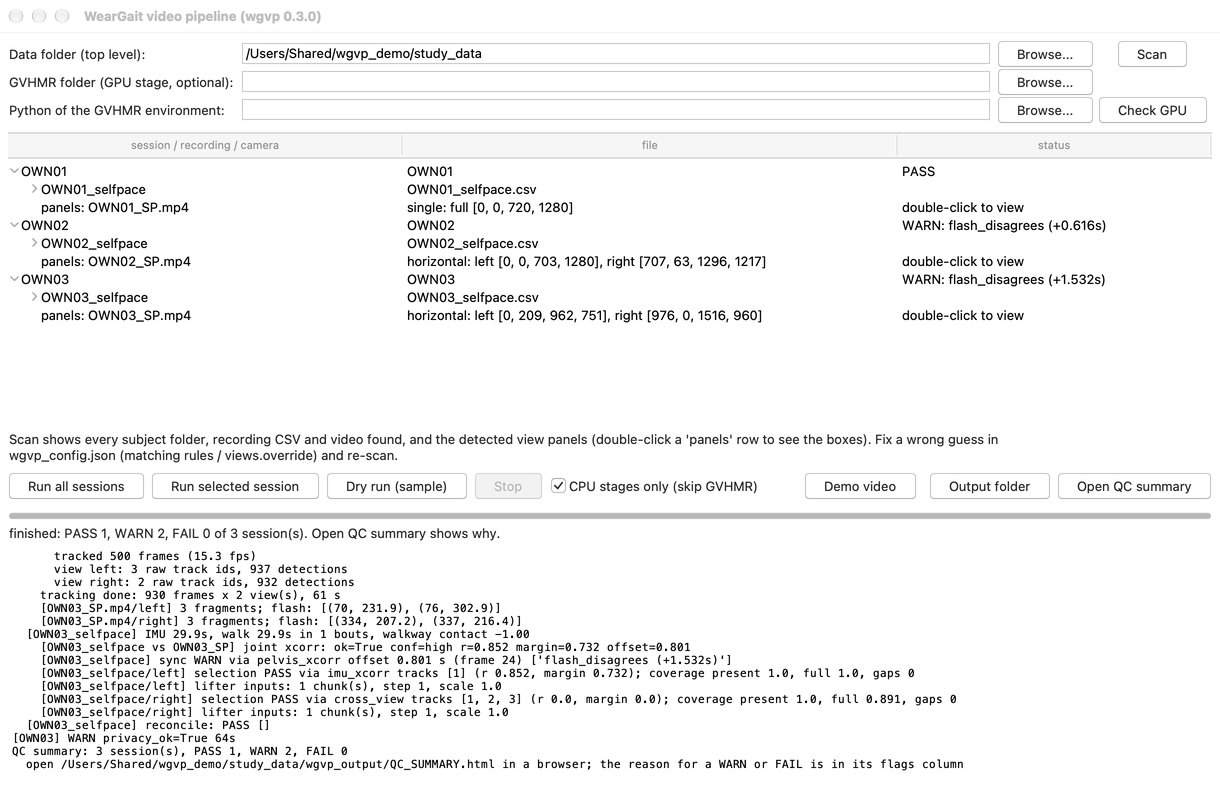
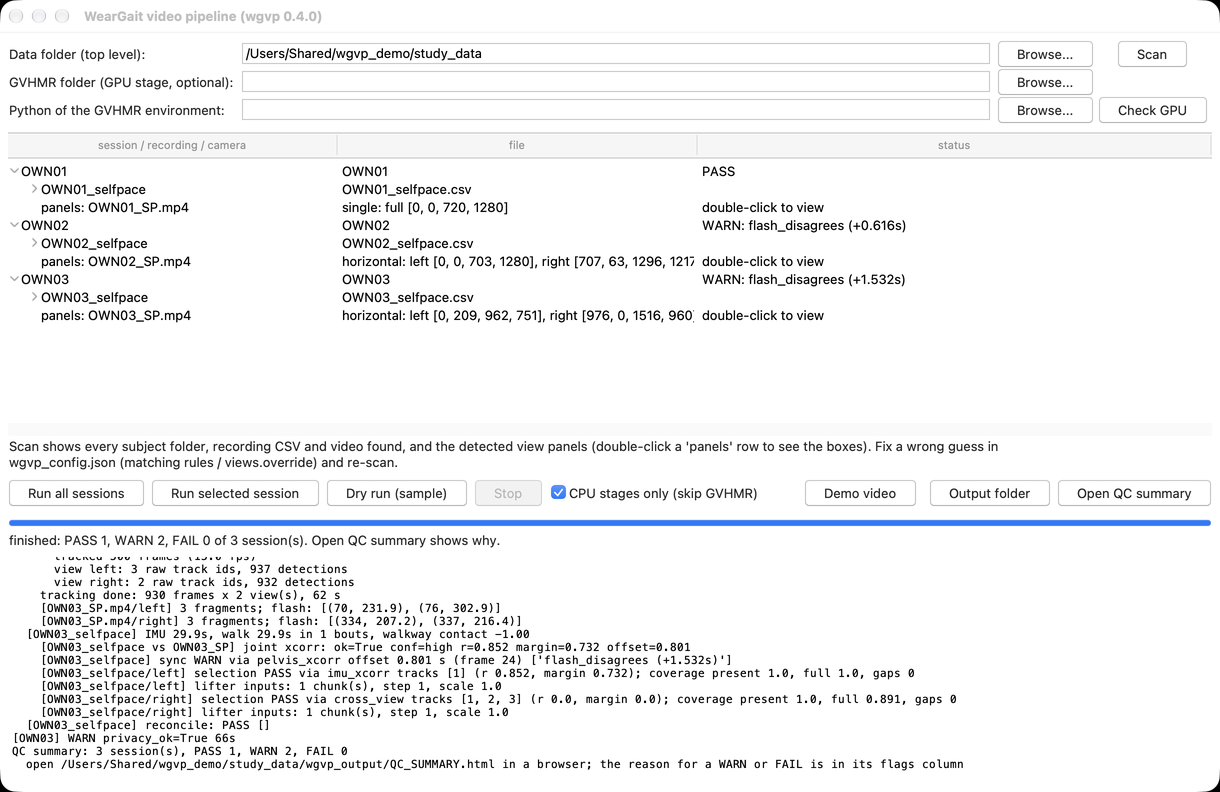
Window clip recorded again after the table change; the recorder is a repo tool
tools/record_window_mac.py records the window through a scan and a CPU-stages run and builds the README's clip;
the window photographs itself through Quartz (its own buffer, by process id and title), so no screen-recording
permission is needed. Three bundled sessions, PASS 1 and WARN 2, two minutes shown in 27 s; 767 KB.

diff --git a/tools/record_window_mac.py b/tools/record_window_mac.py
@@ -1,0 +1,161 @@
+"""The README's window clip, on macOS: record the window through a scan and a CPU-stages run, then build the clip.
+
+    python tools/record_window_mac.py record <frames folder> <data folder>     # frames + frames.json
+    python tools/record_window_mac.py clip <frames folder> <out folder>        # gui_preview.webp (1220 px) and gui.png
+
+The window photographs itself through Quartz (its own buffer, found by this process's id and the window's title),
+so no screen-recording permission is needed and the window may be covered meanwhile. The data folder should sit
+under a neutral path (the field and the log show it); the three bundled sessions give PASS 1, WARN 2 in two minutes.
+Needs the demo extras' pyglet (pip install -e .[demo]) and Pillow.
+"""
+import json
+import os
+import sys
+import time
+import traceback
+import webbrowser
+from ctypes import c_uint32, c_void_p, string_at
+from pathlib import Path
+from tkinter import messagebox
+
+sys.path.insert(0, str(Path(__file__).resolve().parents[1]))
+
+W = 1220
+
+from pyglet.libs.darwin.cocoapy import CFSTR, CGRect, cf, cfnumber_to_number, cfstring_to_string, quartz
+
+quartz.CGWindowListCopyWindowInfo.restype = c_void_p
+quartz.CGWindowListCopyWindowInfo.argtypes = [c_uint32, c_uint32]
+quartz.CGWindowListCreateImage.restype = c_void_p
+quartz.CGWindowListCreateImage.argtypes = [CGRect, c_uint32, c_uint32, c_uint32]
+cf.CFDictionaryGetValue.restype = c_void_p
+cf.CFDictionaryGetValue.argtypes = [c_void_p, c_void_p]
+ALL_WINDOWS, INCLUDING_WINDOW, IGNORE_FRAMING, BEST_RESOLUTION = 0, 1 << 3, 1 << 0, 1 << 3
+K_PID, K_NUMBER, K_NAME, K_LAYER = CFSTR("kCGWindowOwnerPID"), CFSTR("kCGWindowNumber"), CFSTR("kCGWindowName"), CFSTR("kCGWindowLayer")
+
+
+def window_number(title: str) -> int:
+    """The CGWindowID of this process's window whose title contains `title`."""
+    arr = quartz.CGWindowListCopyWindowInfo(ALL_WINDOWS, 0); pid = os.getpid(); found = []
+    for i in range(cf.CFArrayGetCount(arr)):
+        d = cf.CFArrayGetValueAtIndex(arr, i)
+        if cfnumber_to_number(cf.CFDictionaryGetValue(d, K_PID)) != pid:
+            continue
+        name = cf.CFDictionaryGetValue(d, K_NAME); name = cfstring_to_string(name) if name else ""
+        found.append((name, int(cfnumber_to_number(cf.CFDictionaryGetValue(d, K_NUMBER)))))
+    cf.CFRelease(arr)
+    for name, num in found:
+        if title in name:
+            return num
+    raise RuntimeError(f"no window of this process titled like {title!r}; found {found}")
+
+
+def capture(app, path, shadow=False):
+    from PIL import Image
+    app.update_idletasks(); app.update()
+    r = CGRect(); r.origin.x = float("inf"); r.origin.y = float("inf"); r.size.width = 0.0; r.size.height = 0.0   # CGRectNull: the window's own bounds
+    img = quartz.CGWindowListCreateImage(r, INCLUDING_WINDOW, window_number(app.title()), (0 if shadow else IGNORE_FRAMING) | BEST_RESOLUTION)
+    if not img:
+        raise RuntimeError("CGWindowListCreateImage returned nothing")
+    w, h, bpr = quartz.CGImageGetWidth(img), quartz.CGImageGetHeight(img), quartz.CGImageGetBytesPerRow(img)
+    data = quartz.CGDataProviderCopyData(quartz.CGImageGetDataProvider(img))
+    buf = string_at(cf.CFDataGetBytePtr(data), cf.CFDataGetLength(data))
+    im = Image.frombuffer("RGBA", (w, h), buf, "raw", "BGRA", bpr, 1).convert("RGB")
+    cf.CFRelease(data); quartz.CGImageRelease(img)
+    im.save(path)
+    return w, h
+
+
+frames, err = [], []
+OUT = Path()
+
+
+def _widgets(w):
+    for c in w.winfo_children():
+        yield c
+        yield from _widgets(c)
+
+
+def _find(app, cls, text=None):
+    for w in _widgets(app):
+        if w.winfo_class() == cls and (text is None or str(w.cget("text")) == text):
+            return w
+    raise AssertionError(f"no {cls} {text!r}")
+
+
+def shot(app, tag):
+    p = OUT / f"f{len(frames):03d}_{tag}.png"; capture(app, p); frames.append({"t": time.time(), "tag": tag, "file": p.name}); print("shot", p.name, flush=True)
+
+
+def script(app):
+    app.tk.call("wm", "attributes", ".", "-appearance", "light"); app.geometry("1220x760+60+80"); app.lift(); app.update()
+    tree = _find(app, "Treeview")
+    label = next(w for w in _widgets(app) if w.winfo_class() == "TLabel" and str(w.cget("textvariable")))
+    status = lambda: str(app.getvar(str(label.cget("textvariable"))))
+    rows = lambda: [(tree.item(i, "text"), [str(v) for v in tree.item(i, "values")]) for s in tree.get_children() for i in (s, *tree.get_children(s))]
+    yield 300; shot(app, "start")
+    t0 = time.time(); last = time.time()
+    while not rows() or any("detecting" in " ".join(v) for _, v in rows()):
+        assert time.time() - t0 < 180, "scan"
+        if time.time() - last > 1.5:
+            shot(app, "scan"); last = time.time()
+        yield 200
+    yield 500; shot(app, "scanned"); yield 700
+    _find(app, "TCheckbutton").invoke()                               # CPU stages only
+    _find(app, "TButton", "Run all sessions").invoke()
+    t0 = time.time(); yield 300; shot(app, "run")
+    while not status().startswith("finished"):
+        assert time.time() - t0 < 900, "run"
+        yield 2000; shot(app, "run")
+    yield 600; shot(app, "finished"); yield 1200; shot(app, "finished")
+    (OUT / "frames.json").write_text(json.dumps({"frames": frames, "status": status(), "rows": rows()}, indent=1), encoding="utf-8")
+
+
+def on_ready(app):
+    gen = script(app)
+
+    def pump():
+        try:
+            app.after(int(next(gen)), pump)
+        except StopIteration:
+            app.destroy()
+        except BaseException:
+            err.append(traceback.format_exc()); app.destroy()
+    app.after(800, pump)
+
+
+
+def record(out: Path, data: str) -> int:
+    global OUT
+    OUT = out; out.mkdir(parents=True, exist_ok=True)
+    webbrowser.open = lambda *a, **k: None
+    messagebox.showinfo = messagebox.showerror = lambda *a, **k: None
+    from wgvp import gui
+    gui.launch(data, on_ready=on_ready)
+    print("\n".join(err) if err else f"recorded {len(frames)} frames", flush=True)
+    return 1 if err else 0
+
+
+def build_clip(rec: Path, out: Path) -> int:
+    from PIL import Image
+    out.mkdir(parents=True, exist_ok=True); REC, OUT = rec, out
+    meta = json.loads((REC / "frames.json").read_text(encoding="utf-8")); fr = meta["frames"]
+    by = lambda tag: [f for f in fr if f["tag"] == tag]
+    run = by("run"); step = max(1, round(len(run) / 24))
+    chosen = ([(f, 1300) for f in by("start")] + [(f, 650) for f in by("scan")[:4]] + [(f, 1600) for f in by("scanned")]
+              + [(f, 600) for f in run[::step]] + [(f, 2500) for f in by("finished")[:1]] + [(f, 3200) for f in by("finished")[1:2]])
+    ims = []
+    for f, d in chosen:
+        im = Image.open(REC / f["file"]).convert("RGB"); h = round(im.height * W / im.width); ims.append((im.resize((W, h), Image.LANCZOS), d))
+    first = ims[0][0]
+    first.save(OUT / "gui_preview.webp", save_all=True, append_images=[i for i, _ in ims[1:]], duration=[d for _, d in ims], loop=0, quality=80, method=6)
+    ims[-1][0].save(OUT / "gui.png", optimize=True)
+    tot = sum(d for _, d in ims) / 1000
+    print(f"{len(ims)} frames, {tot:.1f} s, webp {(OUT / 'gui_preview.webp').stat().st_size // 1024} KB, png {(OUT / 'gui.png').stat().st_size // 1024} KB, run span {run[-1]['t'] - run[0]['t']:.0f} s")
+    return 0
+
+
+if __name__ == "__main__":
+    if len(sys.argv) != 4 or sys.argv[1] not in ("record", "clip"):
+        print(__doc__); sys.exit(2)
+    sys.exit(record(Path(sys.argv[2]), sys.argv[3]) if sys.argv[1] == "record" else build_clip(Path(sys.argv[2]), Path(sys.argv[3])))

diff --git a/README.md b/README.md
@@ -200,8 +200,8 @@ the equivalent commands in place of the window.
 
 [![The GUI through a scan and a run](docs/demos/gui_preview.webp)](docs/demos/gui.png)
 
-*The window through a scan and a run of the three bundled sessions (CPU stages, two minutes shown in twenty
-seconds).*
+*The window through a scan and a run of the three bundled sessions (CPU stages, two minutes shown in half a
+minute).*
 
 **5. The GPU step** (GVHMR, NVIDIA GPU with 8 GB or more, CUDA 12) lives in its own Python environment:
 [env/install_gvhmr.md](env/install_gvhmr.md). Once it exists, `python -m wgvp check-gpu --gvhmr-root <GVHMR>
@@ -690,7 +690,8 @@ tools/           make_sample.py (how the samples were rendered), make_partner_la
                  chalk_walk.py (a real walk between two ground marks a known distance apart: the truth from one side
                  view, and every estimate against it), standin_body_model.py (a stand-in for the licensed SMPL-X
                  file, for the tests), gvhmr_render_guard.py (the render guard in GVHMR's demo.py),
-                 lift_short_chunk.py (two seconds of the sample through GVHMR, against the truth; the CI's lift)
+                 lift_short_chunk.py (two seconds of the sample through GVHMR, against the truth; the CI's lift),
+                 record_window_mac.py (the window clip above, recorded from inside the window's own process)
 env/             GVHMR environment notes; docker/ container recipe (untested build)
 docs/            design.md (design, test results, open questions), results.md (the measured results behind the
                  README's tables), jointfit.json (the joint fit's comparison),

diff --git a/docs/design.md b/docs/design.md
@@ -2344,7 +2344,11 @@ macOS, whose software OpenGL is slow; the window jobs went from 6 / 11 / 12 min 
 window's spare width; a horizontal scrollbar for a narrow window; and a cell its column cuts off shows whole in a
 small window under the mouse (measured against the column's width with the list's font, minus the row's indent).
 The window test hovers the recording row's file cell after shrinking that column to 60 px and reads the popup, then
-hovers a cell that fits and finds none.
+hovers a cell that fits and finds none. The README's clip was recorded again after the change, with
+`tools/record_window_mac.py`: the window photographs itself through Quartz (its own buffer, found by process id and
+title), which needs no screen-recording permission; the three bundled sessions, PASS 1 and WARN 2, two minutes
+shown in 27 s. The GPU check's rows are now grouped by what they are needed for (the lift, the GPU, GVHMR's own
+renders, advice), and a CPU-only install reads "READY for the lift on the CPU" instead of "NOT ready: 6 items".
 
 **The lift without a GPU, in CI.** `lift-cpu.yml` runs on request (not at every change: 5.4 GB of weights per
 system): GVHMR at the pinned commit in a Python 3.10 environment with the CPU build of torch 2.5.1 and a prebuilt
